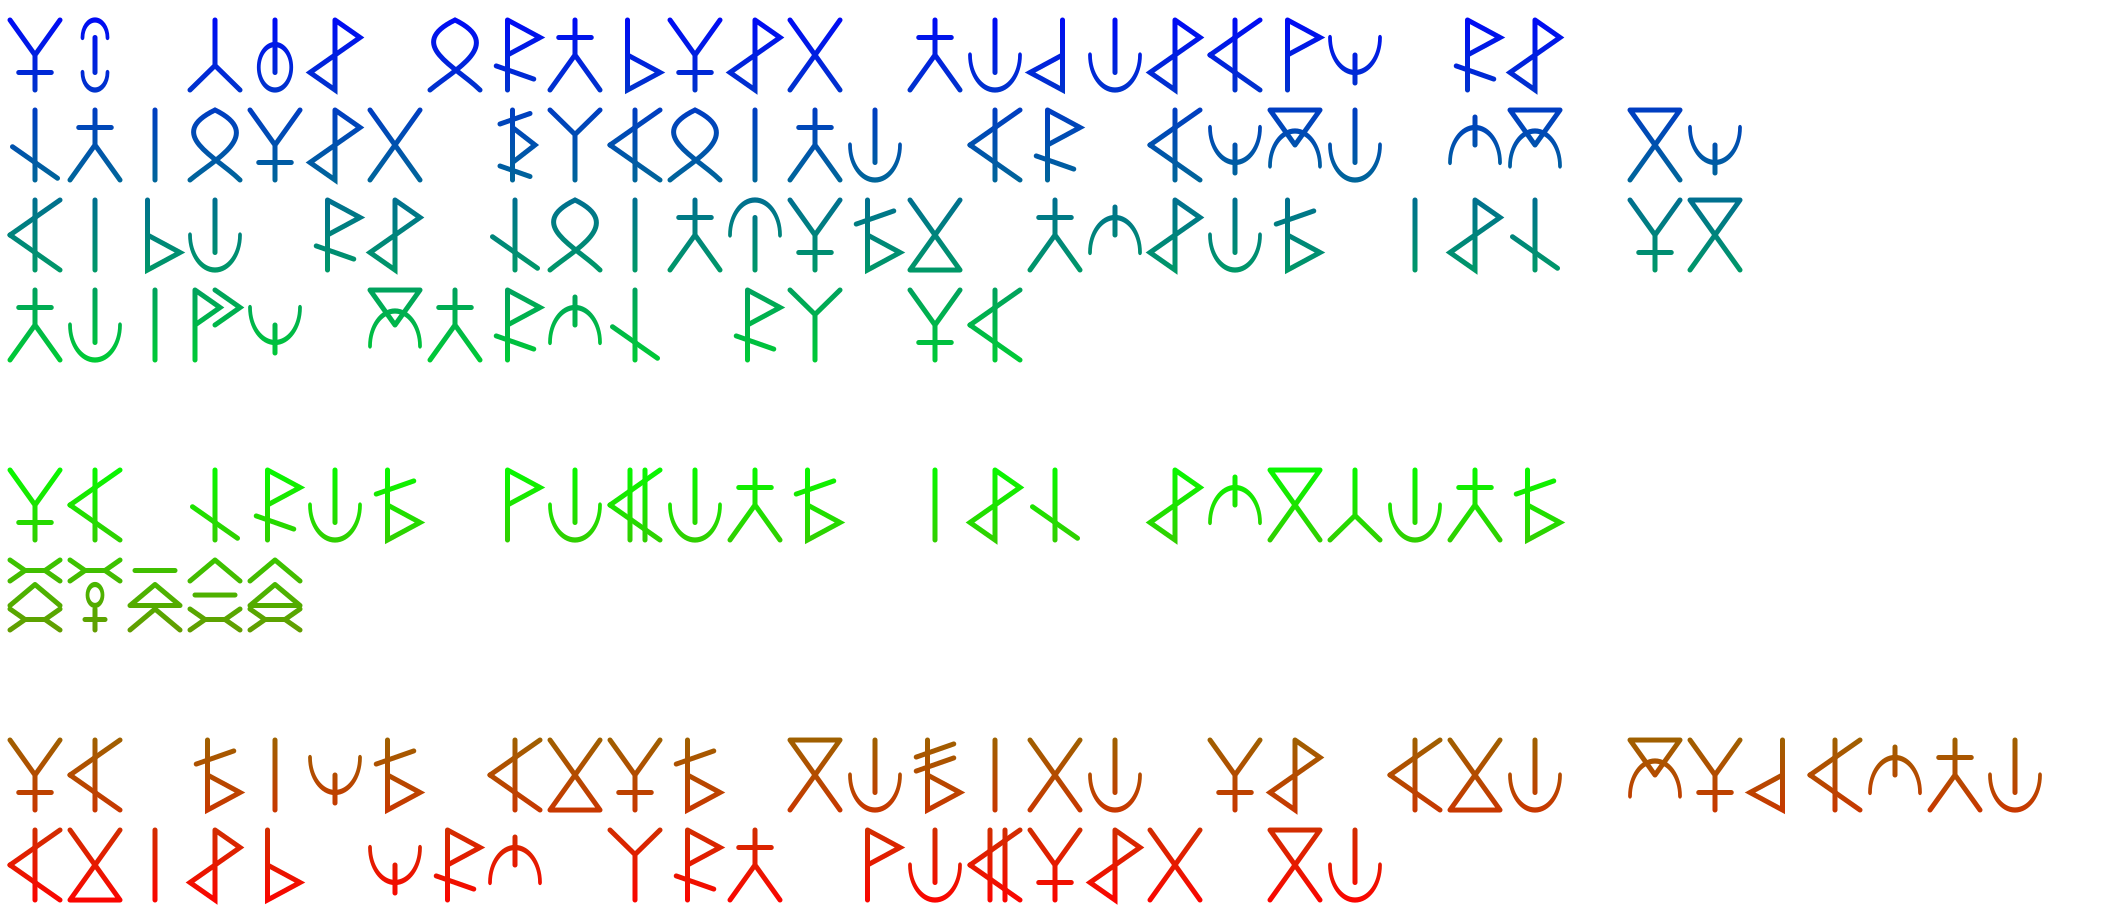
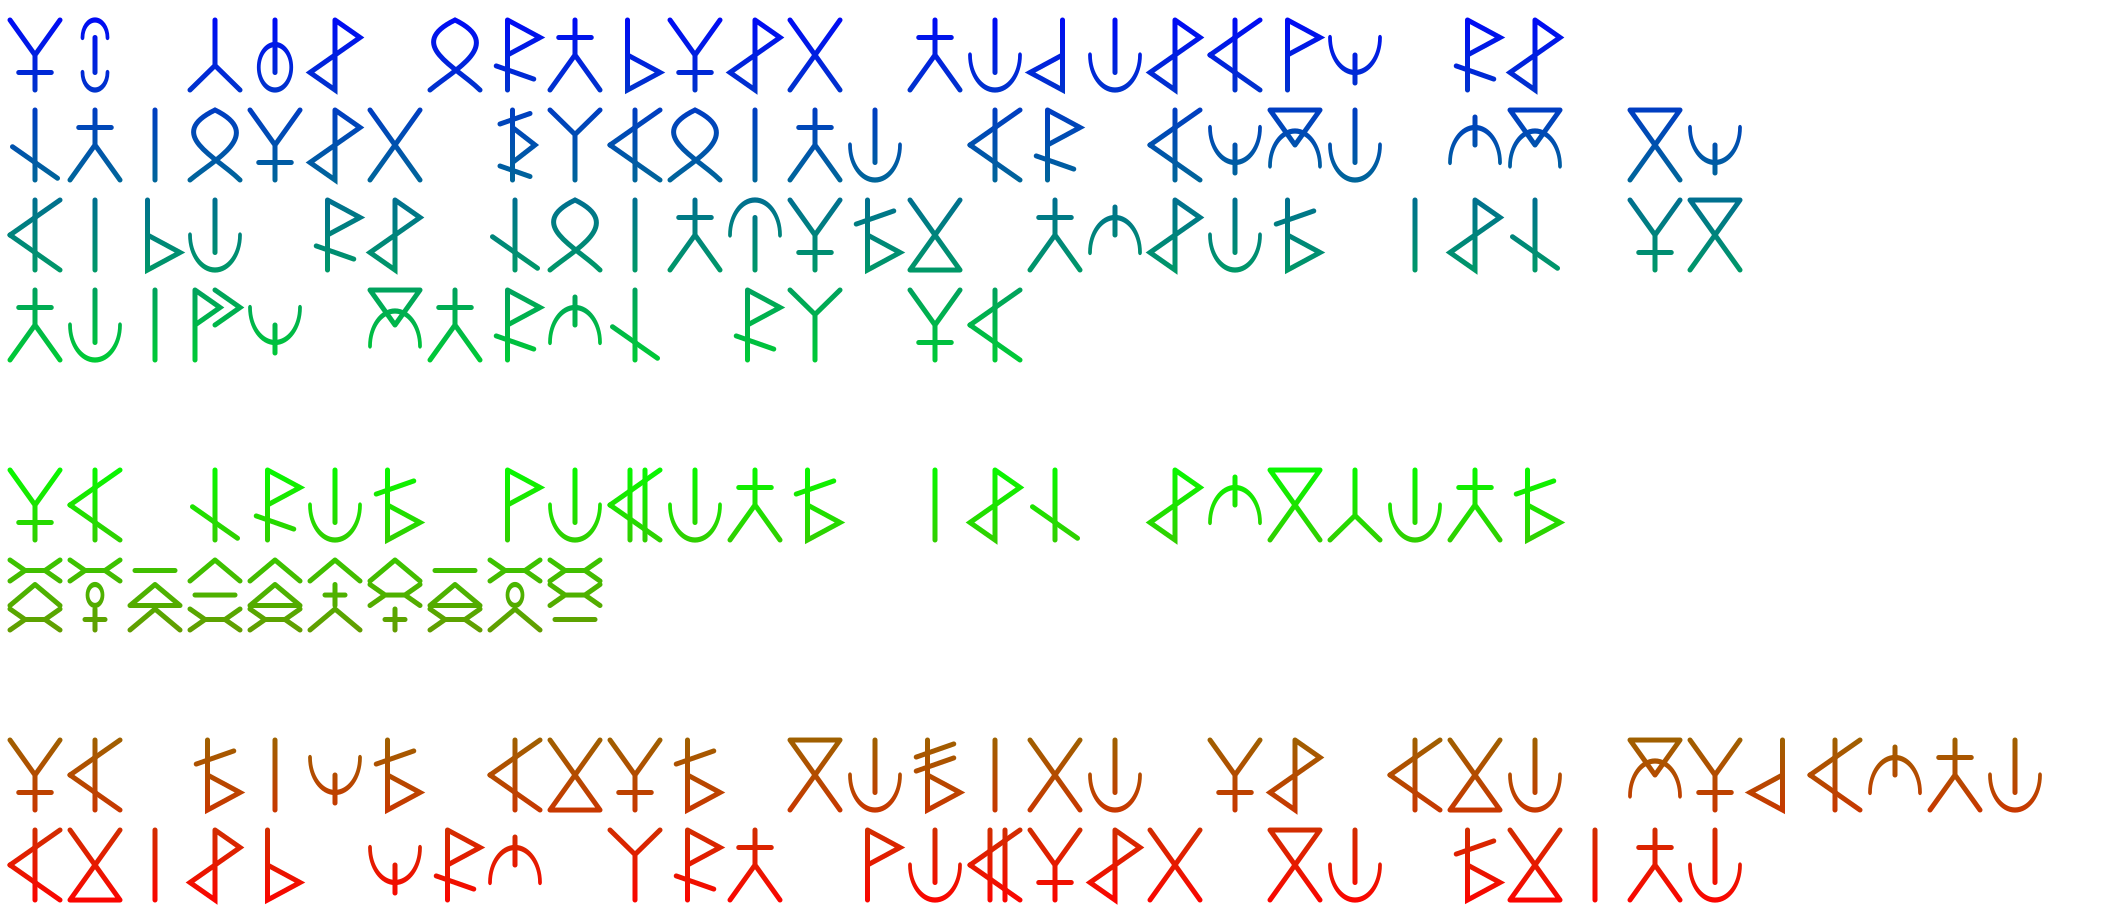
changed main to character writer and significant improvement to rune integration with spell cards

Changed region(s): [[0.154, 0.6154, 0.3081, 0.7077], [0.7701, 0.9231, 0.8318, 1.0], [0.6777, 0.9231, 0.7393, 1.0]]

diff --git a/spell_cards.py b/spell_cards.py
@@ -2,11 +2,11 @@
 
 from math import pi, sin, cos
 import cairo
-
+import character_writer as CW
 
 class SpellWriter:
   GLYPH_WIDTH, GLYPH_HEIGHT = 500, 500
-  LINE_WIDTH = GLYPH_WIDTH // 10
+  LINE_WIDTH = GLYPH_WIDTH // 50
   XPAD, YPAD = LINE_WIDTH * 2, LINE_WIDTH * 4
 
   def __init__(self,
@@ -28,13 +28,33 @@ class SpellWriter:
     else:
       self.generate_default_context()
 
+    self.big_r = .1
+    self.small_r = .08
+
+    self.coords = {
+      "LEVEL":    (0,0),
+      "C/R":      (0,0),
+      "CAST":     (0,0),
+      "DURATION": (0,0),
+      "TARGET":   (0,0),
+      "SCHOOL":   (0,0),
+      "DAMAGE":   (0,0),
+      "RANGE":    (0,0)
+    }
+    self.ctx.save()
+    self.writer_scale = scale / 1.5
+    self.writer = CW.CharacterWriter(scale / 1.5, ctx=self.ctx, surface=self.surface)
+    self.ctx.restore()
+
   def generate_default_context(self):
     pixel_width = int((self.x_scaled + self.XPAD * 2) + 2 * self.LINE_WIDTH)
-    pixel_height = int((self.y_scaled + self.YPAD) + 2 * self.LINE_WIDTH)
+    pixel_height = int((self.y_scaled + self.YPAD * 2) + 2 * self.LINE_WIDTH)
     self.surface = cairo.ImageSurface(cairo.FORMAT_ARGB32, pixel_width,
                                       pixel_height)
     ctx = cairo.Context(self.surface)
-
+    ctx.set_source_rgb(0, 0, 0)
+    ctx.rectangle(0, 0, pixel_width, pixel_height)
+    ctx.fill()
     pat = cairo.LinearGradient(0.0, 0.0, 0.0, pixel_height)
     # add_color_stop_rbga(offset, % red, % green, % blue, % opacity)
     pat.add_color_stop_rgba(1, 1, 0, 0, 1)
@@ -46,6 +66,7 @@ class SpellWriter:
 
     self.ctx.set_line_width(self.LINE_WIDTH)
     self.ctx.set_line_cap(cairo.LINE_CAP_ROUND)
+
 
   def export_image(self, filename="example.png"):
     self.surface.write_to_png(filename)  # Output to PNG
@@ -64,31 +85,12 @@ class SpellWriter:
   def rel_to_user_y(self, rel_y):
     return rel_y * self.y_scaled + self.cursor_y
 
-  def x_y_from_radius(self, angle, radius):
-    x = sin(angle) * radius
-    y = cos(angle) * radius
-    if (pi < angle < 2 * pi):
-      y *= -1
-    if (0.5 * pi < angle < 1.5 * pi):
-      x *= -1
+  def x_y_from_angle(self, angle, radius):
+    angle = angle % (2*pi)
+    x = cos(angle) * radius
+    y = sin(angle) * radius
 
     return x, y
-
-  def advance_cursor(self):
-    self.cursor_x += self.XPAD + self.x_scaled
-
-  def line_feed(self):
-    self.cursor_y += self.YPAD + self.y_scaled
-
-  def carriage_return(self):
-    self.cursor_x = self.x_home
-
-  def newline(self):
-    self.line_feed()
-    self.carriage_return()
-
-  def line_return(self):
-    self.cursor_y = self.y_home
 
   def place_cursor(self, x, y):
     self.x_home = x
@@ -97,19 +99,32 @@ class SpellWriter:
   def stroke(self):
     self.ctx.stroke()
 
+  def fill(self):
+    self.ctx.fill()
+
   def init_cursor(self, rel_x=0, rel_y=0):
     self.ctx.new_path()
     self.move_to(rel_x, rel_y)
 
-  def arc(self, rel_x, rel_y, rad, angle_1, angle_2):
+  def arc(self, rel_x, rel_y, rad, angle_1, angle_2, fill=False):
     self.ctx.save()
     self.ctx.new_sub_path()
     self.ctx.translate(self.cursor_x, self.cursor_y)
     self.ctx.scale(self.x_scaled, self.y_scaled)
     self.ctx.set_line_width(self.LINE_WIDTH / self.x_scaled * 0.75)
     self.ctx.arc(rel_x, rel_y, rad, angle_1, angle_2)
-    self.stroke()
+    if fill:
+      self.fill()
+    else:
+      self.stroke()
     self.ctx.restore()
+
+  def overwriting_arc(self, rel_x, rel_y, rad, angle_1, angle_2):
+    self.ctx.save()
+    self.ctx.set_source_rgb(0, 0, 0)
+    self.arc(rel_x, rel_y, rad, 0, 2*pi, fill=True)
+    self.ctx.restore()
+    self.arc(rel_x, rel_y, rad, 0, 2*pi) 
 
   def move_to(self, rel_x, rel_y):
     self.ctx.move_to(self.rel_to_user_x(rel_x), self.rel_to_user_y(rel_y))
@@ -132,12 +147,81 @@ class SpellWriter:
   def draw_nothing(self):
     pass
 
+  def find_key_coords(self, rad3, rad5):
+    inc3 = 2*pi/3
+    base3 = pi*3/2
+    
+    inc5 = 2*pi/5
+    base5 = pi/2 - 2*inc5
+    self.coords["LEVEL"]    = self.x_y_from_angle(base3 + inc3 * 0, rad3)
+    self.coords["C/R"]      = self.x_y_from_angle(base3 + inc3 * 1, rad3)
+    self.coords["CAST"]     = self.x_y_from_angle(base3 + inc3 * 2, rad3)
+    self.coords["DURATION"] = self.x_y_from_angle(base5 + inc5 * 0, rad5)
+    self.coords["TARGET"]   = self.x_y_from_angle(base5 + inc5 * 1, rad5)
+    self.coords["SCHOOL"]   = self.x_y_from_angle(base5 + inc5 * 2, rad5)
+    self.coords["DAMAGE"]   = self.x_y_from_angle(base5 + inc5 * 3, rad5)
+    self.coords["RANGE"]    = self.x_y_from_angle(base5 + inc5 * 4, rad5)
+
+  def draw_sigil_circles(self):
+    count = 0
+    for key in self.coords:
+      x, y = self.coords[key]
+      if count < 3:
+        self.overwriting_arc(x, y, self.big_r, 0, 2*pi)
+      else:
+        self.overwriting_arc(x, y, self.small_r, 0, 2*pi)
+      count += 1
+
+  def no_save(self):
+    self.init_cursor()
+    rad3, rad5 = .125, .4
+    self.find_key_coords(rad3, rad5)
+    keys = list(self.coords.keys())
+
+    self.arc(0, 0, rad5, 0, 2 * pi)
+    for i in range(5):
+      x1, y1 = self.coords[keys[(i%5)+3]]
+      x2, y2 = self.coords[keys[((i+1)%5)+3]]
+      self.line(x1, y1, x2, y2)
+      self.stroke()
+
+    self.arc(0, 0, rad3+self.big_r, 0, 2*pi)
+    self.draw_sigil_circles()
+    self.draw_sigil("LEVEL", ["2"])
+    self.draw_sigil("RANGE", ["60", "F"])
+    self.draw_sigil("DAMAGE", ["0", "D", "4"])
+    self.draw_sigil("C/R", ["ZZ", "XP", "93"])
+    
+  
+  def draw_sigil(self, key, sigils):
+    self.ctx.save() 
+    self.ctx.set_source_rgb(1, 0.7, 1)
+    x,y = self.coords[key]
+    scale_shift = 1 - (0.15 * (len(sigils) - 1))
+    if key in ["LEVEL", "C/R", "CAST"]:
+      scale_shift *= 1.35
+    self.writer.process_scale(scale_shift)
+    self.ctx.set_line_width(self.writer.LINE_WIDTH)
+    if len(sigils) > 1:
+      x_offset = (self.writer.x_scaled + self.writer.XPAD) / 2 * (len(sigils)-1)
+    else:
+      x_offset = 0
+    y_offset = self.writer.y_scaled / 2
+    self.writer.place_cursor(self.rel_to_user_x(x) - x_offset, self.rel_to_user_y(y) - y_offset)
+    for sigil in sigils:
+      if sigil.isnumeric():
+        self.writer.write_numeric_rune(sigil)
+      else:
+        self.writer.write_rune(sigil)
+    self.writer.process_scale(1 / scale_shift)
+    self.ctx.restore()
 
 def main():
 
-  cw = SpellWriter(1)
-  cw.init_cursor()
-  cw.arc(0, 0, 0.7, 0, 2 * pi)
+  cw = SpellWriter(2)
+  cw.no_save()
+  
+  
   cw.export_image("spell_card" + ".png")
 
 

diff --git a/character_writer.py b/character_writer.py
@@ -3,7 +3,6 @@
 import math
 import cairo
 
-
 class CharacterWriter:
 	CHAR_WIDTH, CHAR_HEIGHT = 50, 70
 	LINE_WIDTH = CHAR_WIDTH // 10
@@ -119,10 +118,8 @@ class CharacterWriter:
 		}
 
 	def generate_default_context(self, char_width, char_height):
-		pixel_width = int(char_width *
-		                  (self.x_scaled + self.XPAD)) + 2 * self.LINE_WIDTH
-		pixel_height = int(char_height * (self.y_scaled + self.YPAD) +
-		                   2 * self.LINE_WIDTH)
+		pixel_width = int(char_width * (self.x_scaled + self.XPAD) + 2 * self.LINE_WIDTH)
+		pixel_height = int(char_height * (self.y_scaled + self.YPAD) + 2 * self.LINE_WIDTH)
 		self.surface = cairo.ImageSurface(cairo.FORMAT_ARGB32, pixel_width,
 		                                  pixel_height)
 		ctx = cairo.Context(self.surface)
